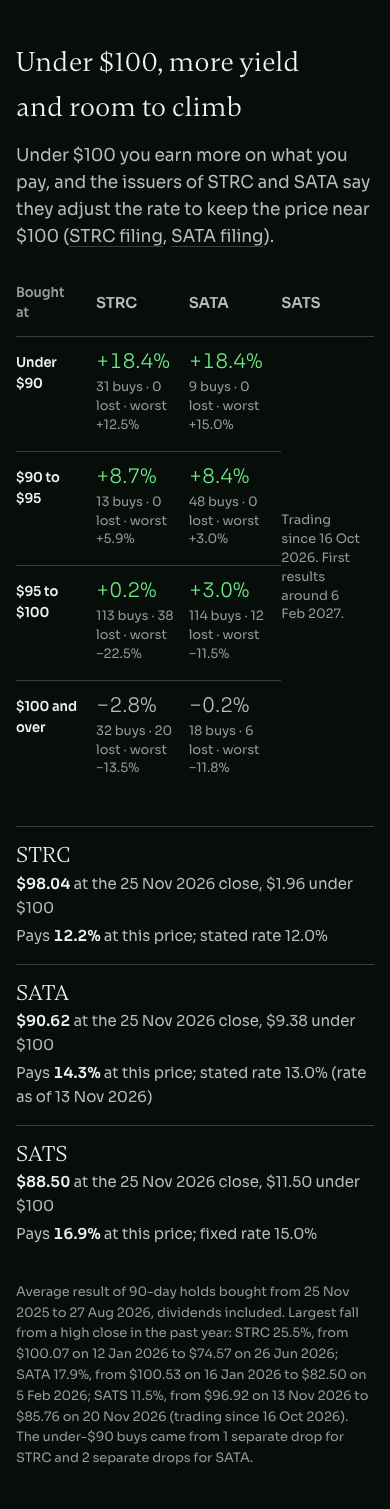
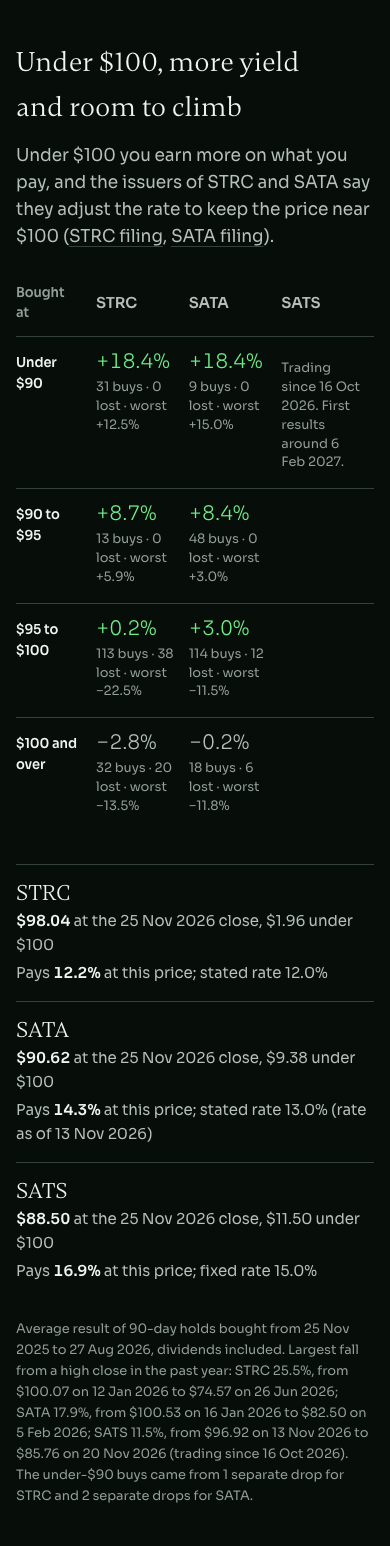
Under $100 table: SATS note in the first row, row rules run the full width

diff --git a/site/next/index.html b/site/next/index.html
@@ -47,7 +47,7 @@
     <h2 id="h-paid">Liquid and steady</h2>
     <p class="sub" id="paid-sub">Sell any trading day.</p>
     <div class="paid" id="paid-charts"></div>
-    <div class="below" id="below"><!--feed:below--><h3 class="bp-h">Under $100, more yield and room to climb</h3><p class="bp-lede">Under $100 you earn more on what you pay, and the issuers of STRC and SATA say they adjust the rate to keep the price near $100 (<a href="https://www.sec.gov/Archives/edgar/data/1050446/000119312525165531/d852456d424b5.htm" rel="noopener">STRC filing</a>, <a href="https://www.sec.gov/Archives/edgar/data/1920406/000114036126002238/ny20063534x5_424b5.htm" rel="noopener">SATA filing</a>).</p><div class="bp-grid"><table class="bp"><caption class="vh">Past holds by price paid: average result, buys and losses</caption><thead><tr><th scope="col">Bought at</th><th scope="col">STRC</th><th scope="col">SATA</th><th scope="col">SATS</th></tr></thead><tbody><tr><th scope="row">Under $90</th><td class="up" data-l="STRC"><span class="bp-n num">+18.4%</span><span class="bp-s">31 buys · 0 lost · worst +12.5%</span></td><td class="up" data-l="SATA"><span class="bp-n num">+18.4%</span><span class="bp-s">9 buys · 0 lost · worst +15.0%</span></td><td class="flat wait" rowspan="4" data-l="SATS"><span class="bp-s">Trading since 16 Oct 2026. First results around 6 Feb 2027.</span></td></tr><tr><th scope="row">$90 to $95</th><td class="up" data-l="STRC"><span class="bp-n num">+8.7%</span><span class="bp-s">13 buys · 0 lost · worst +5.9%</span></td><td class="up" data-l="SATA"><span class="bp-n num">+8.4%</span><span class="bp-s">48 buys · 0 lost · worst +3.0%</span></td></tr><tr><th scope="row">$95 to $100</th><td class="up" data-l="STRC"><span class="bp-n num">+0.2%</span><span class="bp-s">113 buys · 38 lost · worst −22.5%</span></td><td class="up" data-l="SATA"><span class="bp-n num">+3.0%</span><span class="bp-s">114 buys · 12 lost · worst −11.5%</span></td></tr><tr><th scope="row">$100 and over</th><td class="flat" data-l="STRC"><span class="bp-n num">−2.8%</span><span class="bp-s">32 buys · 20 lost · worst −13.5%</span></td><td class="flat" data-l="SATA"><span class="bp-n num">−0.2%</span><span class="bp-s">18 buys · 6 lost · worst −11.8%</span></td></tr></tbody></table><ul class="bp-now" aria-label="Today"><li><span class="bp-tk">STRC</span><span><b class="num">$98.04</b> at the 25 Nov 2026 close, $1.96 under $100</span><span>Pays <b class="num">12.2%</b> at this price; stated rate 12.0%</span></li><li><span class="bp-tk">SATA</span><span><b class="num">$90.62</b> at the 25 Nov 2026 close, $9.38 under $100</span><span>Pays <b class="num">14.3%</b> at this price; stated rate 13.0% (rate as of 13 Nov 2026)</span></li><li><span class="bp-tk">SATS</span><span><b class="num">$88.50</b> at the 25 Nov 2026 close, $11.50 under $100</span><span>Pays <b class="num">16.9%</b> at this price; fixed rate 15.0%</span></li></ul></div><p class="fine">Average result of 90-day holds bought from 25 Nov 2025 to 27 Aug 2026, dividends included. Largest fall from a high close in the past year: STRC 25.5%, from $100.07 on 12 Jan 2026 to $74.57 on 26 Jun 2026; SATA 17.9%, from $100.53 on 16 Jan 2026 to $82.50 on 5 Feb 2026; SATS 11.5%, from $96.92 on 13 Nov 2026 to $85.76 on 20 Nov 2026 (trading since 16 Oct 2026). The under-$90 buys came from 1 separate drop for STRC and 2 separate drops for SATA.</p><!--/feed:below--></div>
+    <div class="below" id="below"><!--feed:below--><h3 class="bp-h">Under $100, more yield and room to climb</h3><p class="bp-lede">Under $100 you earn more on what you pay, and the issuers of STRC and SATA say they adjust the rate to keep the price near $100 (<a href="https://www.sec.gov/Archives/edgar/data/1050446/000119312525165531/d852456d424b5.htm" rel="noopener">STRC filing</a>, <a href="https://www.sec.gov/Archives/edgar/data/1920406/000114036126002238/ny20063534x5_424b5.htm" rel="noopener">SATA filing</a>).</p><div class="bp-grid"><table class="bp"><caption class="vh">Past holds by price paid: average result, buys and losses</caption><thead><tr><th scope="col">Bought at</th><th scope="col">STRC</th><th scope="col">SATA</th><th scope="col">SATS</th></tr></thead><tbody><tr><th scope="row">Under $90</th><td class="up" data-l="STRC"><span class="bp-n num">+18.4%</span><span class="bp-s">31 buys · 0 lost · worst +12.5%</span></td><td class="up" data-l="SATA"><span class="bp-n num">+18.4%</span><span class="bp-s">9 buys · 0 lost · worst +15.0%</span></td><td class="flat wait" data-l="SATS"><span class="bp-s">Trading since 16 Oct 2026. First results around 6 Feb 2027.</span></td></tr><tr><th scope="row">$90 to $95</th><td class="up" data-l="STRC"><span class="bp-n num">+8.7%</span><span class="bp-s">13 buys · 0 lost · worst +5.9%</span></td><td class="up" data-l="SATA"><span class="bp-n num">+8.4%</span><span class="bp-s">48 buys · 0 lost · worst +3.0%</span></td><td class="flat wait" data-l="SATS"><span class="vh">not yet</span></td></tr><tr><th scope="row">$95 to $100</th><td class="up" data-l="STRC"><span class="bp-n num">+0.2%</span><span class="bp-s">113 buys · 38 lost · worst −22.5%</span></td><td class="up" data-l="SATA"><span class="bp-n num">+3.0%</span><span class="bp-s">114 buys · 12 lost · worst −11.5%</span></td><td class="flat wait" data-l="SATS"><span class="vh">not yet</span></td></tr><tr><th scope="row">$100 and over</th><td class="flat" data-l="STRC"><span class="bp-n num">−2.8%</span><span class="bp-s">32 buys · 20 lost · worst −13.5%</span></td><td class="flat" data-l="SATA"><span class="bp-n num">−0.2%</span><span class="bp-s">18 buys · 6 lost · worst −11.8%</span></td><td class="flat wait" data-l="SATS"><span class="vh">not yet</span></td></tr></tbody></table><ul class="bp-now" aria-label="Today"><li><span class="bp-tk">STRC</span><span><b class="num">$98.04</b> at the 25 Nov 2026 close, $1.96 under $100</span><span>Pays <b class="num">12.2%</b> at this price; stated rate 12.0%</span></li><li><span class="bp-tk">SATA</span><span><b class="num">$90.62</b> at the 25 Nov 2026 close, $9.38 under $100</span><span>Pays <b class="num">14.3%</b> at this price; stated rate 13.0% (rate as of 13 Nov 2026)</span></li><li><span class="bp-tk">SATS</span><span><b class="num">$88.50</b> at the 25 Nov 2026 close, $11.50 under $100</span><span>Pays <b class="num">16.9%</b> at this price; fixed rate 15.0%</span></li></ul></div><p class="fine">Average result of 90-day holds bought from 25 Nov 2025 to 27 Aug 2026, dividends included. Largest fall from a high close in the past year: STRC 25.5%, from $100.07 on 12 Jan 2026 to $74.57 on 26 Jun 2026; SATA 17.9%, from $100.53 on 16 Jan 2026 to $82.50 on 5 Feb 2026; SATS 11.5%, from $96.92 on 13 Nov 2026 to $85.76 on 20 Nov 2026 (trading since 16 Oct 2026). The under-$90 buys came from 1 separate drop for STRC and 2 separate drops for SATA.</p><!--/feed:below--></div>
   </section>
 
   <section class="wrap block" id="odds" aria-labelledby="h-odds">

diff --git a/site/next/styles.css b/site/next/styles.css
@@ -429,7 +429,7 @@ h3 { font-family: var(--f-disp); }
 }
 .bk-crash { margin-top: 2.5rem; }
 .bp-hd { display: block; font-size: var(--t-xs); font-weight: 400; color: var(--ink-3); }
-.bp td.wait { vertical-align: middle; }
+.bp td.wait .bp-s { margin-top: 0.5rem; }
 .lift-sharpe { max-width: 72ch; }
 .bk-out .bp thead th:first-child { width: 6rem; }
 .bk-line { margin-top: 1.25rem; color: var(--ink-2); font-size: var(--t-sm); max-width: 66ch; text-wrap: pretty; }

diff --git a/datproof_feed/pages.py b/datproof_feed/pages.py
@@ -498,8 +498,8 @@ def below_block(feed: dict) -> str:
         tds = ""
         for c in cols:
             if c["p"] is None:
-                if k == 0:
-                    tds += f'<td class="flat wait" rowspan="{len(labels)}" data-l="{e(c["ticker"])}"><span class="bp-s">{e(wait_note(c))}</span></td>'
+                tds += (f'<td class="flat wait" data-l="{e(c["ticker"])}"><span class="bp-s">{e(wait_note(c))}</span></td>' if k == 0
+                        else f'<td class="flat wait" data-l="{e(c["ticker"])}"><span class="vh">not yet</span></td>')
                 continue
             b = c["p"]["bands"][k]
             big, small = band_cell(b)
